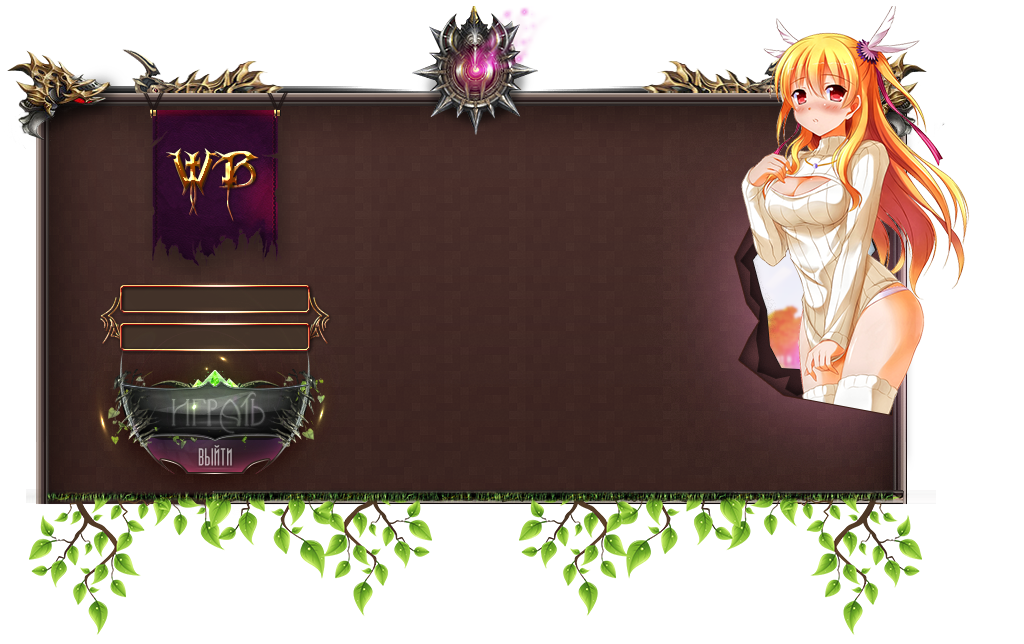
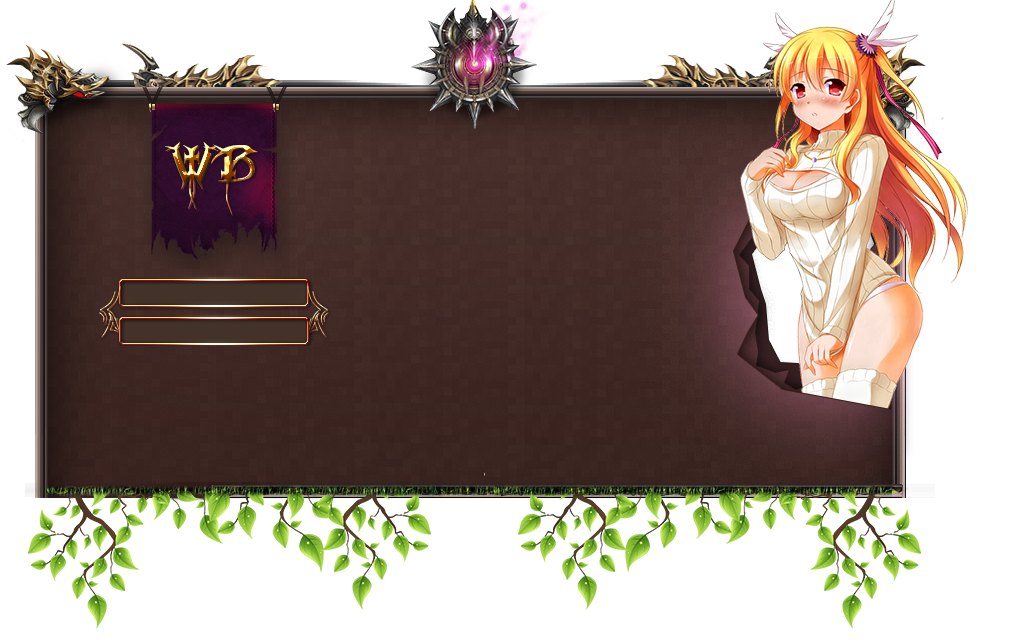
v0.1b

Changed region(s): [[0.0, 0.0, 0.9688, 0.9938], [0.1562, 0.2174, 0.2812, 0.3416]]

diff --git a/src/net/launcher/theme/LoginTheme.java b/src/net/launcher/theme/LoginTheme.java
@@ -17,7 +17,7 @@ public class LoginTheme
 {
 	public static int frameW = 1024; 
 	public static int frameH = 644;
-          public static ButtonStyle server1 = new ButtonStyle(405, 190, 199, 113, "font", "HT", 16.0F, Color.decode("0x000000"), true, Align.LEFT);
+  public static ButtonStyle server1 = new ButtonStyle(405, 190, 199, 113, "font", "HT", 16.0F, Color.decode("0x000000"), true, Align.LEFT);
   public static ButtonStyle server2 = new ButtonStyle(600, 217, 204, 50, "font", "", 16.0F, Color.decode("0x000000"), true, Align.LEFT);
   public static ButtonStyle server3 = new ButtonStyle(600, 304, 204, 50, "font", "", 16.0F, Color.decode("0x000000"), true, Align.LEFT);
   public static ButtonStyle server4 = new ButtonStyle(800, 135, 357, 50, "font", "", 16.0F, Color.decode("0x000000"), true, Align.LEFT);
@@ -29,11 +29,11 @@ public class LoginTheme
   public static ServerbarStyle serverbar4 = new ServerbarStyle(800, 171, 100, 16, "font", 15.0F, Color.decode("0xFFFFFF"), true);
   public static ServerbarStyle serverbar5 = new ServerbarStyle(800, 254, 100, 16, "font", 15.0F, Color.decode("0xFFFFFF"), true);
   public static ServerbarStyle serverbar6 = new ServerbarStyle(800, 339, 100, 16, "font", 15.0F, Color.decode("0xFFFFFF"), true);
-	public static ButtonStyle	 toAuth	     = new ButtonStyle(123, 385, 180, 47, "font", "button", 16F, Color.decode("0xd4dc7b"), true, Align.CENTER);
-	public static ButtonStyle	 toLogout    = new ButtonStyle(138, 428, 150, 47, "font", "button", 16F, Color.decode("0xd4dc7b"), true, Align.CENTER);
+	public static ButtonStyle	 toAuth	     = new ButtonStyle(96, 345, 245, 91, "font", "togame", 16F, Color.decode("0xd4dc7b"), true, Align.CENTER);
+	public static ButtonStyle	 toLogout    = new ButtonStyle(96, 436, 245, 36, "font", "exit", 16F, Color.decode("0xd4dc7b"), true, Align.CENTER);
 	
-	public static ButtonStyle	 toGame	     = new ButtonStyle(462, 307, 195, 64, "font", "togame", 16F, Color.decode("0xd4dc7b"), true, Align.CENTER);
-	public static ButtonStyle	 toPersonal  = new ButtonStyle(123, 385, 195, 64, "font", "togame", 16F, Color.decode("0xd4dc7b"), true, Align.CENTER);
+	public static ButtonStyle	 toGame	     = new ButtonStyle(462, 307, 180, 47, "font", "button", 16F, Color.decode("0xd4dc7b"), true, Align.CENTER);
+	public static ButtonStyle	 toPersonal  = new ButtonStyle(96, 345, 245, 91, "font", "togame", 16F, Color.decode("0xd4dc7b"), true, Align.CENTER);
 	public static ButtonStyle	 toOptions   = new ButtonStyle(396, 307, 150, 47, "font", "button", 16F, Color.decode("0xd4dc7b"), true, Align.CENTER);
 	public static ButtonStyle	 toRegister  = new ButtonStyle(296, 367, 150, 47, "font", "button", 16F, Color.decode("0xd4dc7b"), true, Align.CENTER);
 	

diff --git a/src/net/launcher/components/Frame.java b/src/net/launcher/components/Frame.java
@@ -785,7 +785,7 @@ public class Frame extends JFrame implements ActionListener, FocusListener
 			buyUnban.setEnabled(false);
 		}
 
-		panel.add(toGamePersonal);
+		//panel.add(toGamePersonal);
                 panel.add(s1);
                 panel.add(s2);
                 panel.add(s3);
